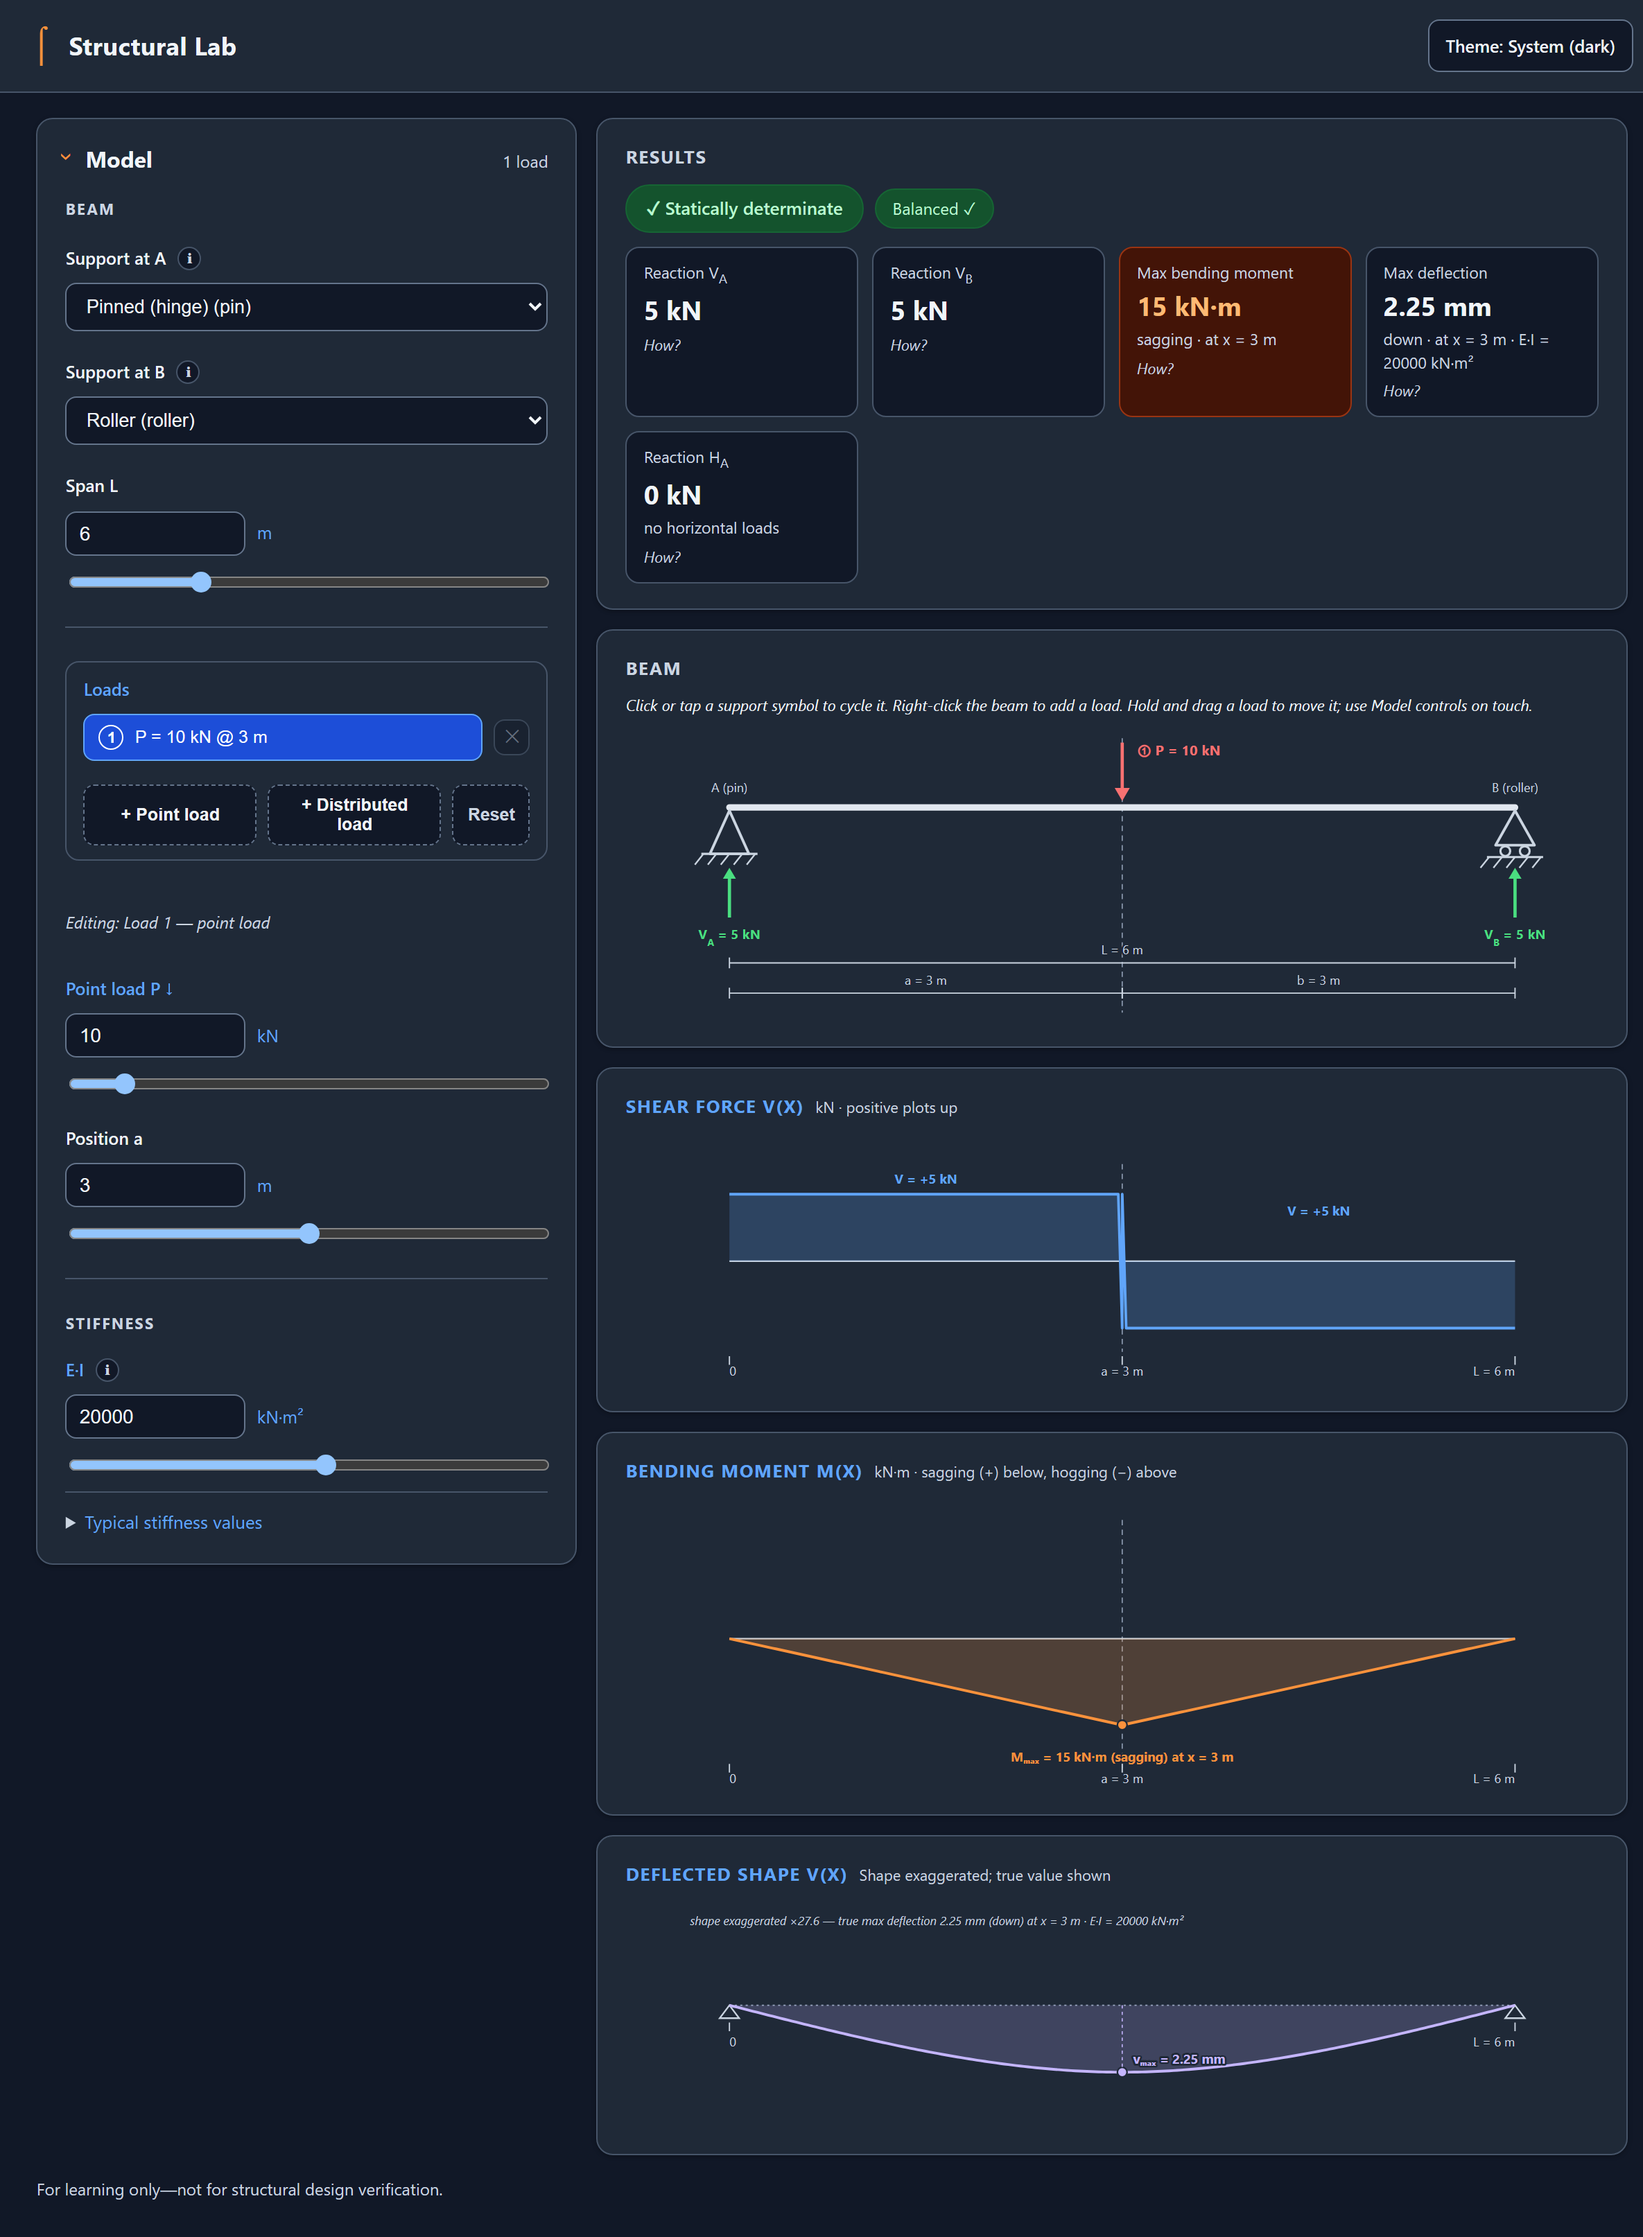
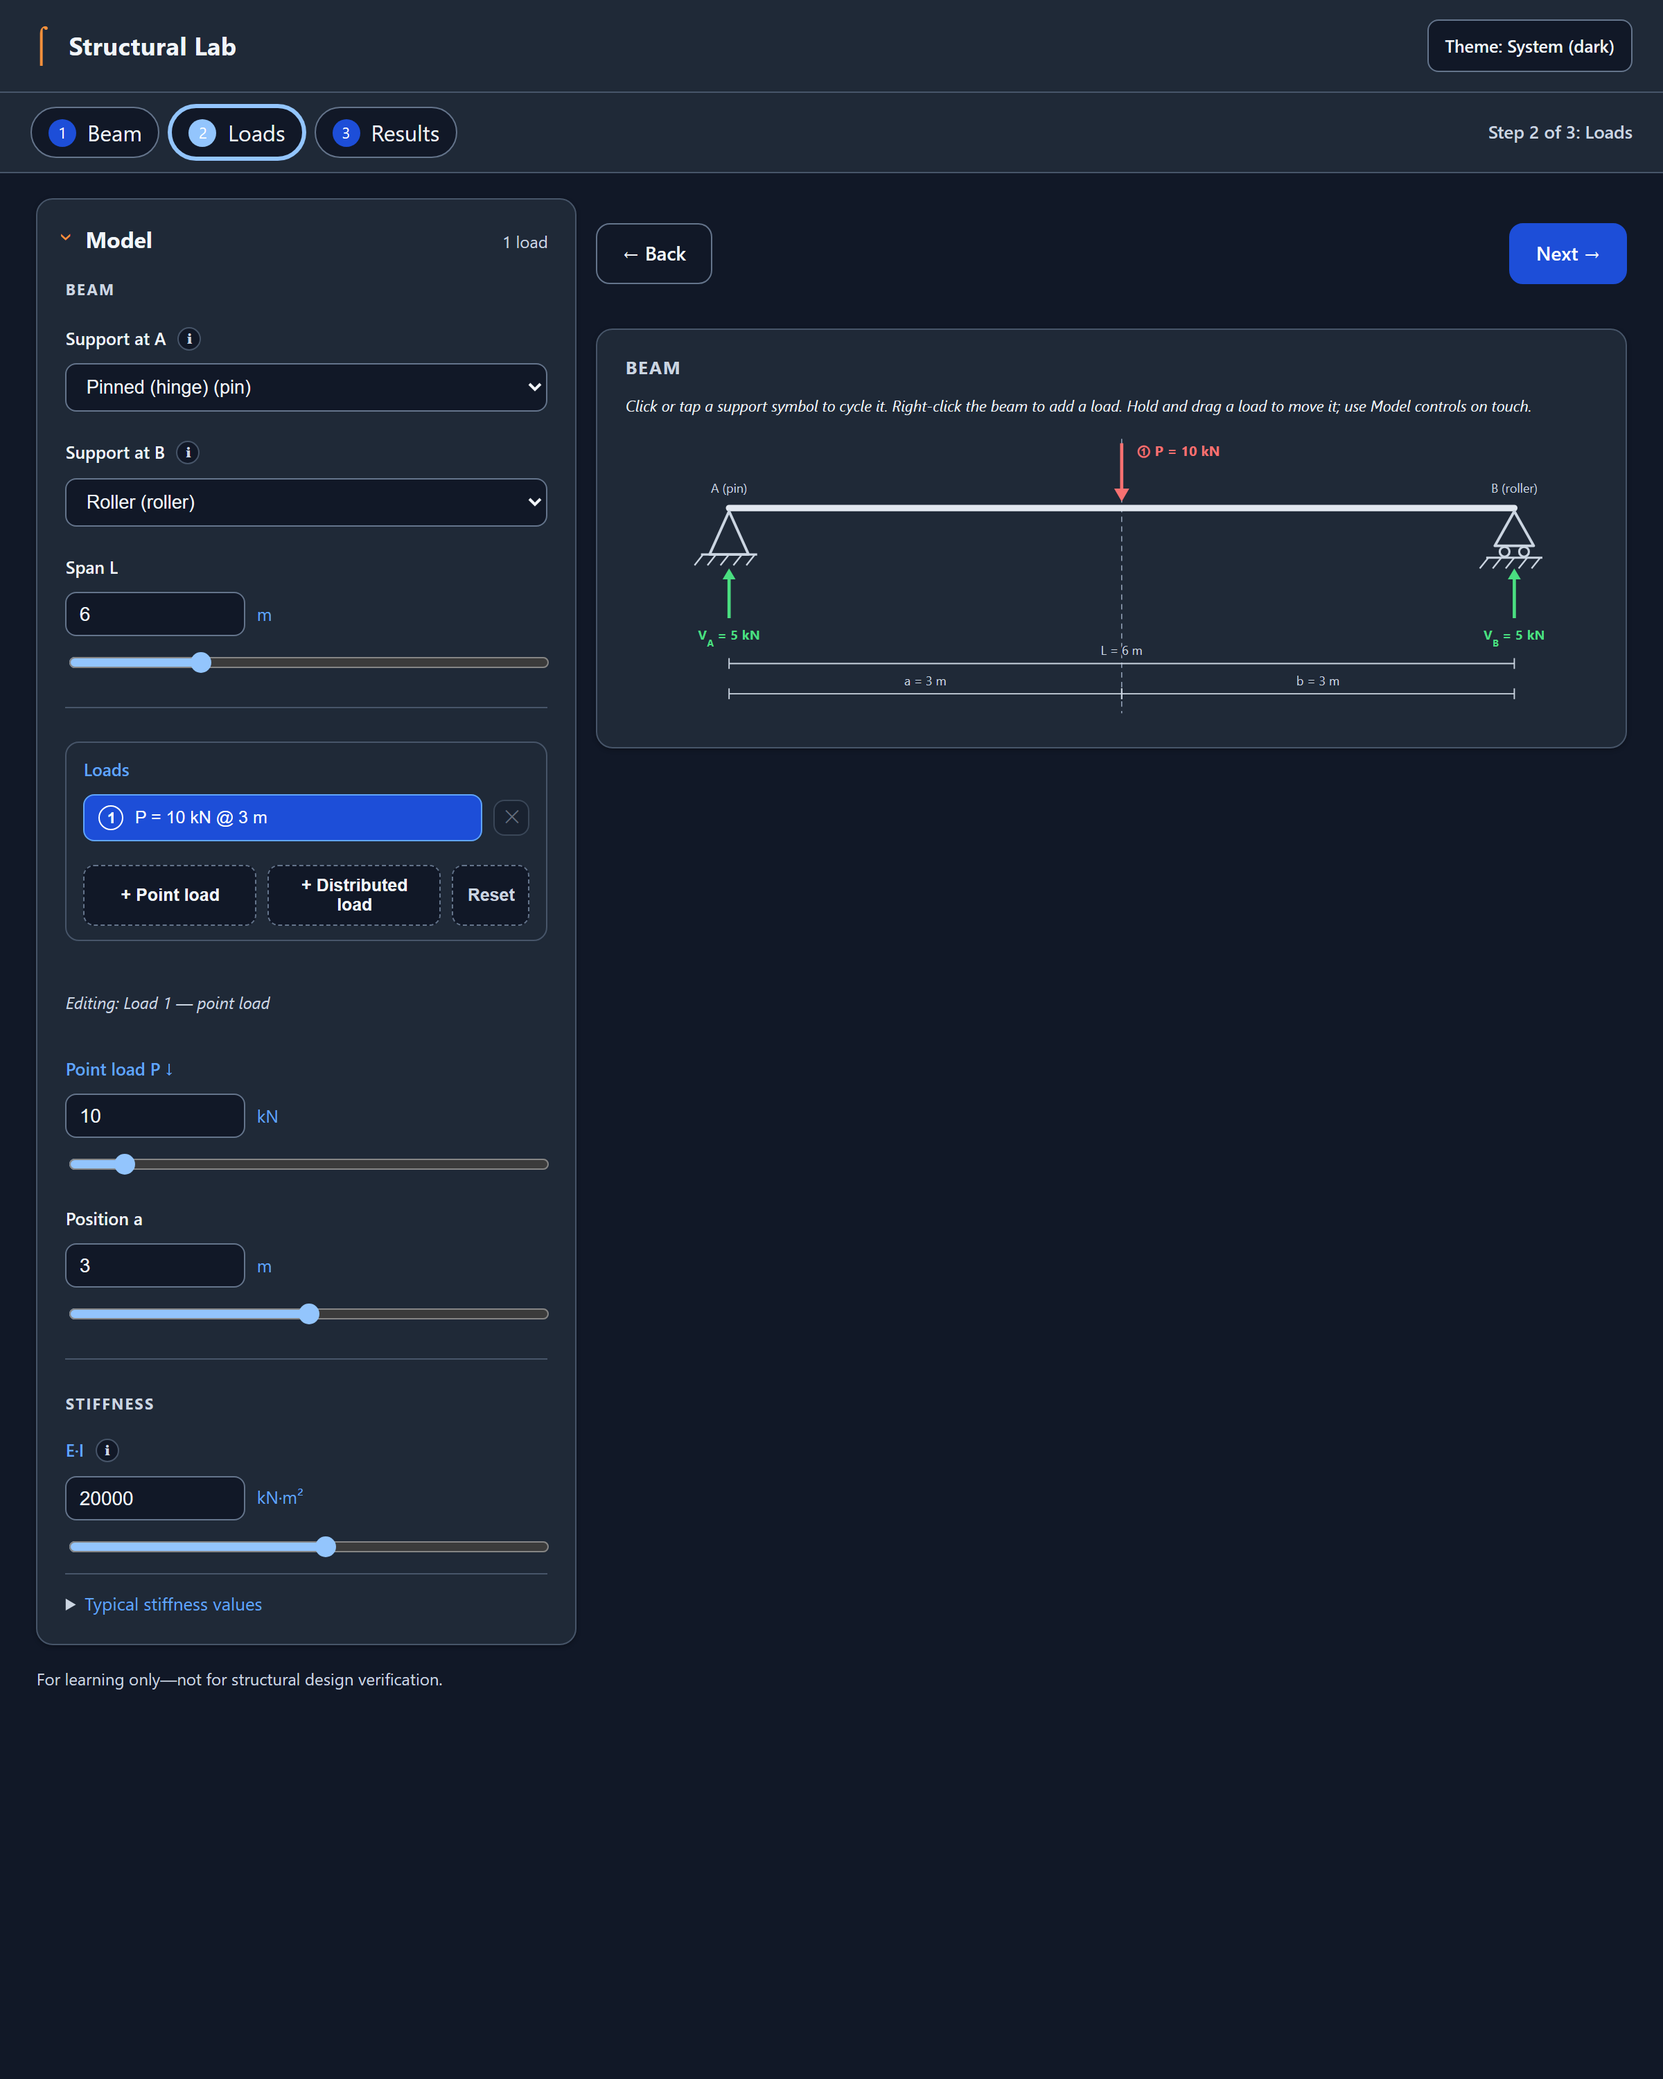
Restore the pending demo note and refresh README screenshots for the three-step UI
The demo is not live yet, so the README keeps its setup note; the repo-hygiene test checks for it and was failing the Pages deploy guard. The screenshots were stale, so the capture script now takes each image on the step where its state appears.

🤖 Generated with Codebuff

diff --git a/readme.md b/readme.md
@@ -4,9 +4,11 @@
 
 **An interactive beam lab for learning structural analysis.** Change the loads or supports and see the beam’s reactions, shear force, bending moment, and deflected shape respond.
 
+> **Hosted demo setup is pending.** This repository has a GitHub Pages workflow; follow the setup steps below before sharing an online demo link.
+
 ## Try the lab
 
-The browser demo opens with a 6 m span and a 10 kN load in the middle. It needs no account, download, or setup. The lab works in three steps; use **Back** and **Next**, or the step bar at the top, to move between them.
+Once published, the browser demo opens with a 6 m span and a 10 kN load in the middle. It needs no account, download, or setup. The lab works in three steps; use **Back** and **Next**, or the step bar at the top, to move between them.
 
 1. **Beam:** look at the beam, its supports, and the span.
 2. **Loads:** drag the load arrow along the beam, click a support to change its type, and open **Model** to add a point or distributed load. Try a **Snow drift** preset.
@@ -14,7 +16,7 @@ The browser demo opens with a 6 m span and a 10 kN load in the middle. It needs 
 
 | Point load | Distributed load | Triangular load |
 |---|---|---|
-| ![Beam with a movable point load and analysis diagrams](docs/screenshot-point.png) | ![Beam with a distributed load and analysis diagrams](docs/screenshot-udl.png) | ![Beam with a triangular load and analysis diagrams](docs/screenshot-triangular.png) |
+| ![Beam with a movable point load](docs/screenshot-point.png) | ![Beam with a distributed load](docs/screenshot-udl.png) | ![Beam with a triangular load and its analysis diagrams](docs/screenshot-triangular.png) |
 
 ## Run it on your computer (optional)
 
